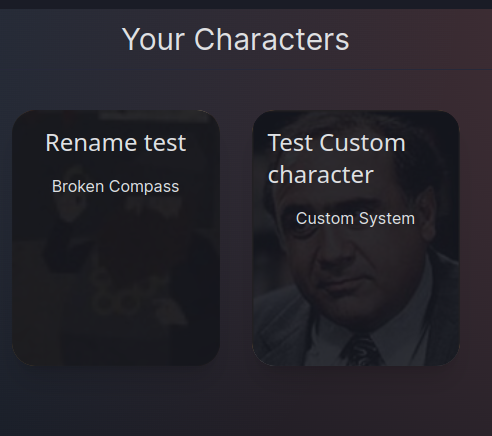
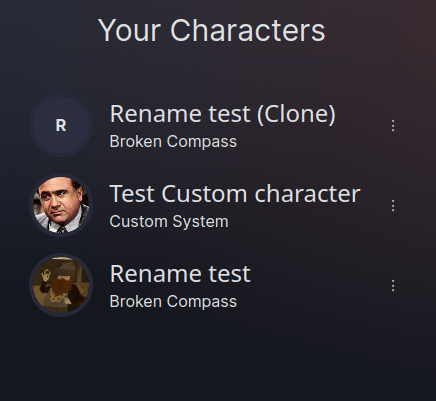
Clone character functionality

diff --git a/src/routes/characters/+page.svelte b/src/routes/characters/+page.svelte
@@ -1,12 +1,85 @@
 <!-- Characters Page -->
 <script lang="ts">
-	import CharacterCard from '$lib/components/CharacterCard.svelte';
-	import { getAllCharacters } from '$models/character';
-	import { ProgressRadial, type ToastSettings } from '@skeletonlabs/skeleton';
+	import type { CharactersResponse } from '$lib/pocketbase-types';
+	import toastShow from '$lib/toastShow';
+	import { cloneCharacter, deleteCharacter, getAllCharacters, getCharacterAvatar } from '$models/character';
+	import { ProgressRadial, type PopupSettings, popup, modalStore, type ModalSettings } from '@skeletonlabs/skeleton';
+	import { Avatar } from '@skeletonlabs/skeleton';
+	import { flip } from 'svelte/animate';
+	import { crossfade } from 'svelte/transition';
+	import { quintOut } from 'svelte/easing';
 
-	const getMyCharactersPromise = getAllCharacters({
-		expand: 'rpgSystem'
-	})
+	const charOperationsMenu: PopupSettings = {
+		event: 'focus-click',
+		target: 'charOperationsPopup',
+		placement: 'bottom',
+		closeQuery: '.list-option'
+	};
+
+
+	// Async load Characters and store in variable.
+	let myCharacters: CharactersResponse[]
+	async function loadMyCharacters() {
+		myCharacters = await getAllCharacters({
+			expand: 'rpgSystem'
+		})
+	}
+
+	// Character Operations
+	let operationsOnCharacterId: string
+	async function cloneSelectedCharacter() {
+		const character = await cloneCharacter(operationsOnCharacterId)
+
+		toastShow(`Character <span class="text-secondary-100">${character.name}</span> has been cloned`)
+
+		myCharacters = [...myCharacters, character]
+	}
+
+  function deleteCharacterPrompt() {
+
+		const character = myCharacters.find(c => c.id === operationsOnCharacterId)
+
+		if (character) {
+			const modal: ModalSettings = {
+				type: 'confirm',
+				title: 'Please Confirm',
+				body: `Are you sure you want to remove character <span class="text-error-900">${character.name}</span>? This action cannot be undone.`,
+				response: async (r: boolean) => {
+					if (r === true) {
+
+						await deleteCharacter(character.id)
+
+						toastShow(`Character <span class="text-error-900">${character.name}</span> has been removed`)
+
+						// Update reactively so the element refreshes.
+						myCharacters = myCharacters.filter(c => c.id!== character.id)
+
+					}
+				}
+			};
+			modalStore.trigger(modal);
+		}
+	}
+
+	// Animations
+	const [send, receive] = crossfade({
+		duration: (d) => Math.sqrt(d * 200),
+
+		fallback(node, params) {
+			const style = getComputedStyle(node);
+			const transform = style.transform === 'none' ? '' : style.transform;
+
+			return {
+				duration: 300,
+				easing: quintOut,
+				css: (t) => `
+					transform: ${transform} scale(${t});
+					opacity: ${t}
+				`
+			};
+		}
+	});
+
 </script>
 
 <div class="flex flex-col">
@@ -17,12 +90,48 @@
 
 	<!-- My Characters section -->
 	<div class="flex items-center justify-center flex-wrap">
-		{#await getMyCharactersPromise}
+		{#await loadMyCharacters()}
 			<ProgressRadial value={undefined} />
-		{:then myCharacters} 
-			{#each myCharacters as character}
-			<CharacterCard {character} />
+		{:then _}
+			<ul class="list-nav">
+			{#each myCharacters as character(character.id)}
+			<li
+				animate:flip
+				in:receive={{ key: character.id }}
+				out:send={{ key: character.id }}
+				class="flex justify-between items-center">
+				<a class="list-option w-full" href="/characters/{character.id}">
+					<Avatar
+						initials={character.name.charAt(0)}
+						border="border-4 border-surface-300-600-token"
+						src={getCharacterAvatar(character)} />
+					<span class="flex-auto">
+						<div>
+							<h3 class="h3">{character.name}</h3>
+							{#if character.expand && character.expand.rpgSystem}
+								<article>{character.expand.rpgSystem.name}</article>
+							{/if}
+						</div>
+					</span>
+				</a>
+				<span>
+					<button
+						class="btn-icon btn-icon-sm"
+						on:click={() => operationsOnCharacterId = character.id}
+						use:popup={charOperationsMenu}
+						>⋮</button>
+				</span>
+			</li>
 			{/each}
+			</ul>
 		{/await}
 	</div>
+</div>
+
+<div class="card w-48 shadow-xl py-2" data-popup="charOperationsPopup">
+	<ul class="list-nav px-2">
+		<li class="list-option" on:keyup on:click={cloneSelectedCharacter}>Clone</li>
+		<li class="list-option bg-error-900" on:keyup on:click={deleteCharacterPrompt}>Remove</li>
+	</ul>
+	<div class="arrow bg-surface-100-800-token" />
 </div>

diff --git a/src/routes/characters/[slug]/+page.svelte b/src/routes/characters/[slug]/+page.svelte
@@ -10,10 +10,11 @@
   import Icon from "svelte-icons-pack"
   import FaSolidSkull from "svelte-icons-pack/fa/FaSolidSkull";
 
-	import { modalStore, type ModalSettings, type ToastSettings, toastStore } from "@skeletonlabs/skeleton";
+	import { modalStore, type ModalSettings } from "@skeletonlabs/skeleton";
 	import { goto } from "$app/navigation";
 	import CharacterAvatar from "$lib/components/CharacterAvatar.svelte";
 	import type { CharactersResponse } from "$lib/pocketbase-types";
+	import toastShow from "$lib/toastShow";
 
   let CharacterSheet: any
   let characterName: string = ""
@@ -52,23 +53,17 @@
     }
   })
 
-  $: $characterStore
-
   function deleteCharacterPrompt() {
 
     const modal: ModalSettings = {
         type: 'confirm',
         title: 'Please Confirm',
-        body: `Are you sure you want to remove character <span class="text-red-800">${characterName}</span>? This action cannot be undone.`,
+        body: `Are you sure you want to remove character <span class="text-error-900">${characterName}</span>? This action cannot be undone.`,
         response: async (r: boolean) => {
           if (r === true) {
             await deleteCharacter($characterStore.id)
 
-            const t: ToastSettings = {
-              message: `Character <span class="text-red-800">${characterName}</span> has been removed`,
-              timeout: 5000
-            };
-            toastStore.trigger(t);
+            toastShow(`Character <span class="text-error-900">${characterName}</span> has been removed`)
 
             goto("/characters")
           }

diff --git a/src/models/character.ts b/src/models/character.ts
@@ -138,3 +138,25 @@ export function getCharacterFieldGroups(character: CharactersResponse) {
 export async function characterUpdateAvatar(characterId: string, avatarMultipart: any): Promise<CharactersResponse> {
   return await pb.collection("characters").update(characterId, avatarMultipart);
 }
+
+export async function cloneCharacter(characterId: string) {
+
+  const characterToClone = await getCharacter(characterId)
+  const newCharacter = JSON.parse(JSON.stringify(characterToClone))
+  // remove the Id to create a new one and avatar as it requires reuploading
+  newCharacter["name"] = newCharacter["name"] + " (Clone)"
+  delete(newCharacter["id"])
+  delete(newCharacter["avatar"])
+  return await createCharacter(newCharacter)
+}
+
+export function subscribeCharacterOperations() {
+  pb.collection("characters").subscribe("*", async (e) => {
+    console.log(e)
+    console.log("New character created")
+  });
+}
+
+export function unsubscribeCharacterOperations() {
+  pb.collection("characters").unsubscribe("*");
+}

diff --git a/src/lib/toastShow.ts b/src/lib/toastShow.ts
@@ -1,0 +1,10 @@
+import { toastStore, type ToastSettings } from "@skeletonlabs/skeleton";
+
+export default function toastShow(message: string) {
+  const t: ToastSettings = {
+    message: message,
+    timeout: 5000
+  };
+  
+  toastStore.trigger(t)
+}
